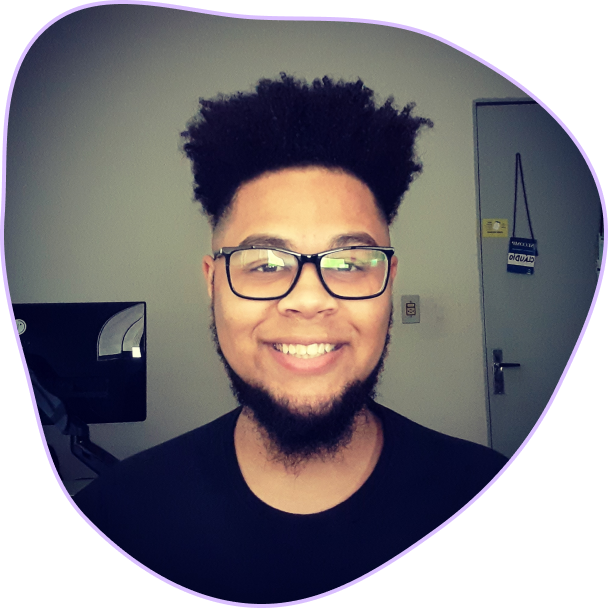
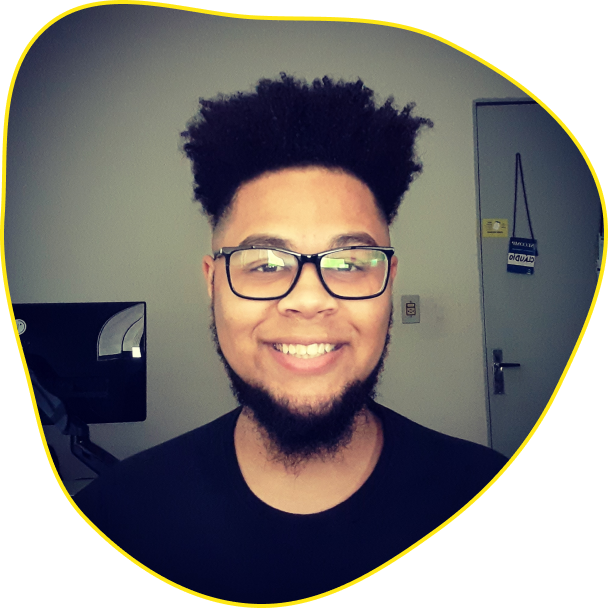
style: change theme pallete to yellow

diff --git a/src/components/Button/styles.tsx b/src/components/Button/styles.tsx
@@ -1,14 +1,14 @@
-import styled from 'styled-components';
+import styled from 'styled-components'
 
-import { ButtonSizes } from '../../constants/ButtonSizes';
-import theme from './../../styles/theme';
+import { ButtonSizes } from '../../constants/ButtonSizes'
+import theme from './../../styles/theme'
 
-const { colors, font, spacing, breakpoints } = theme;
+const { colors, font, spacing, breakpoints } = theme
 interface ButtonProps {
-  outline?: boolean;
-  rounded?: boolean;
-  size?: ButtonSizes;
-  desktopSize?: ButtonSizes;
+  outline?: boolean
+  rounded?: boolean
+  size?: ButtonSizes
+  desktopSize?: ButtonSizes
 }
 
 export const Container = styled.a<ButtonProps>`
@@ -17,8 +17,8 @@ export const Container = styled.a<ButtonProps>`
 
   padding: 0 ${spacing[8]};
   border-radius: ${({ rounded }) => (rounded ? '999px' : spacing[3])};
-  background: ${({ outline }) => (outline ? 'transparent' : colors.secondary)};
-  border: ${({ outline }) => (outline ? `2px solid ${colors.secondary}` : 'none')};
+  background: ${({ outline }) => (outline ? 'transparent' : colors.primary)};
+  border: ${({ outline }) => (outline ? `2px solid ${colors.primary}` : 'none')};
 
   display: flex;
   align-items: center;
@@ -28,16 +28,16 @@ export const Container = styled.a<ButtonProps>`
 
   font-size: ${font[20]};
   font-weight: 400;
-  color: ${({ outline }) => (outline ? colors.secondary : colors.dark)};
+  color: ${({ outline }) => (outline ? colors.primary : colors.dark)};
 
   &:hover {
     transition: 300ms ease-in-out;
-    background: ${({ outline }) => (outline ? 'transparent' : colors.secondaryDark)};
-    border: ${({ outline }) => (outline ? `2px solid ${colors.secondaryDark}` : 'none')};
-    color: ${({ outline }) => (outline ? colors.secondaryDark : colors.dark)};
+    background: ${({ outline }) => (outline ? 'transparent' : colors.primaryDark)};
+    border: ${({ outline }) => (outline ? `2px solid ${colors.primaryDark}` : 'none')};
+    color: ${({ outline }) => (outline ? colors.primaryDark : colors.dark)};
   }
 
   @media screen and (min-width: ${breakpoints.md}) {
     height: ${({ desktopSize }) => `${desktopSize}px`};
   }
-`;
+`

diff --git a/src/pages/index.tsx b/src/pages/index.tsx
@@ -38,7 +38,7 @@ const Home: NextPage = () => {
     <HomeContainer>
       <HeroLeft>
         <TitleContainer>
-          <h1>Toda boa ideia merece um bom código,</h1>
+          <h1>Toda boa ideia merece um bom código</h1>
           <h3>e acredito que eu possa te ajudar nisso.</h3>
         </TitleContainer>
 
@@ -106,7 +106,7 @@ const Home: NextPage = () => {
               <ProjectContent>
                 <ProjectTitle>
                   <p>{project.title}</p>
-                  <ExternalLink size={24} color={colors.secondary} />
+                  <ExternalLink size={24} color={colors.primary} />
                 </ProjectTitle>
                 <ProjectDescription>{project.description}</ProjectDescription>
               </ProjectContent>

diff --git a/src/components/Menu/styles.tsx b/src/components/Menu/styles.tsx
@@ -49,7 +49,7 @@ export const StyledMenu = styled.nav<MenuProps>`
   height: 100vh;
   width: 75vw;
   position: fixed;
-  background-color: ${colors.primaryDark};
+  background-color: ${colors.secondary};
   z-index: 1;
   padding: ${spacing[14]} 0;
 
@@ -62,16 +62,17 @@ export const StyledMenu = styled.nav<MenuProps>`
 
 export const StyledLink = styled.a`
   text-decoration: none;
-  color: ${colors.light};
+  color: ${colors.primary};
   font-size: ${font[20]};
   padding: ${spacing[5]};
 
   &:hover {
     transition: 300ms ease-in-out;
-    color: ${colors.secondary};
+    color: ${colors.primary};
   }
 
   @media screen and (min-width: ${breakpoints.md}) {
+    color: ${colors.light};
     padding: 0;
   }
 `

diff --git a/src/styles/theme.ts b/src/styles/theme.ts
@@ -1,12 +1,11 @@
 const theme = {
   colors: {
-    primary: '#DABFFF',
-    primaryDark: '#4F518C',
+    primary: '#FEE715',
+    primaryDark: 'rgba(254, 231, 21, 0.6);',
 
-    secondary: '#7FDEFF',
-    secondaryDark: '#1FC7FF',
+    secondary: '#262D34',
 
-    dark: '#2C2A4A',
+    dark: '#111312',
     light: '#FAFAFA',
 
     black: '#000000',

diff --git a/src/styles/pages/Home.ts b/src/styles/pages/Home.ts
@@ -193,7 +193,7 @@ export const ProjectTitle = styled.span`
   justify-content: space-between;
 
   p {
-    color: ${colors.secondary};
+    color: ${colors.primary};
     font-size: ${font[18]};
     font-weight: 600;
   }
